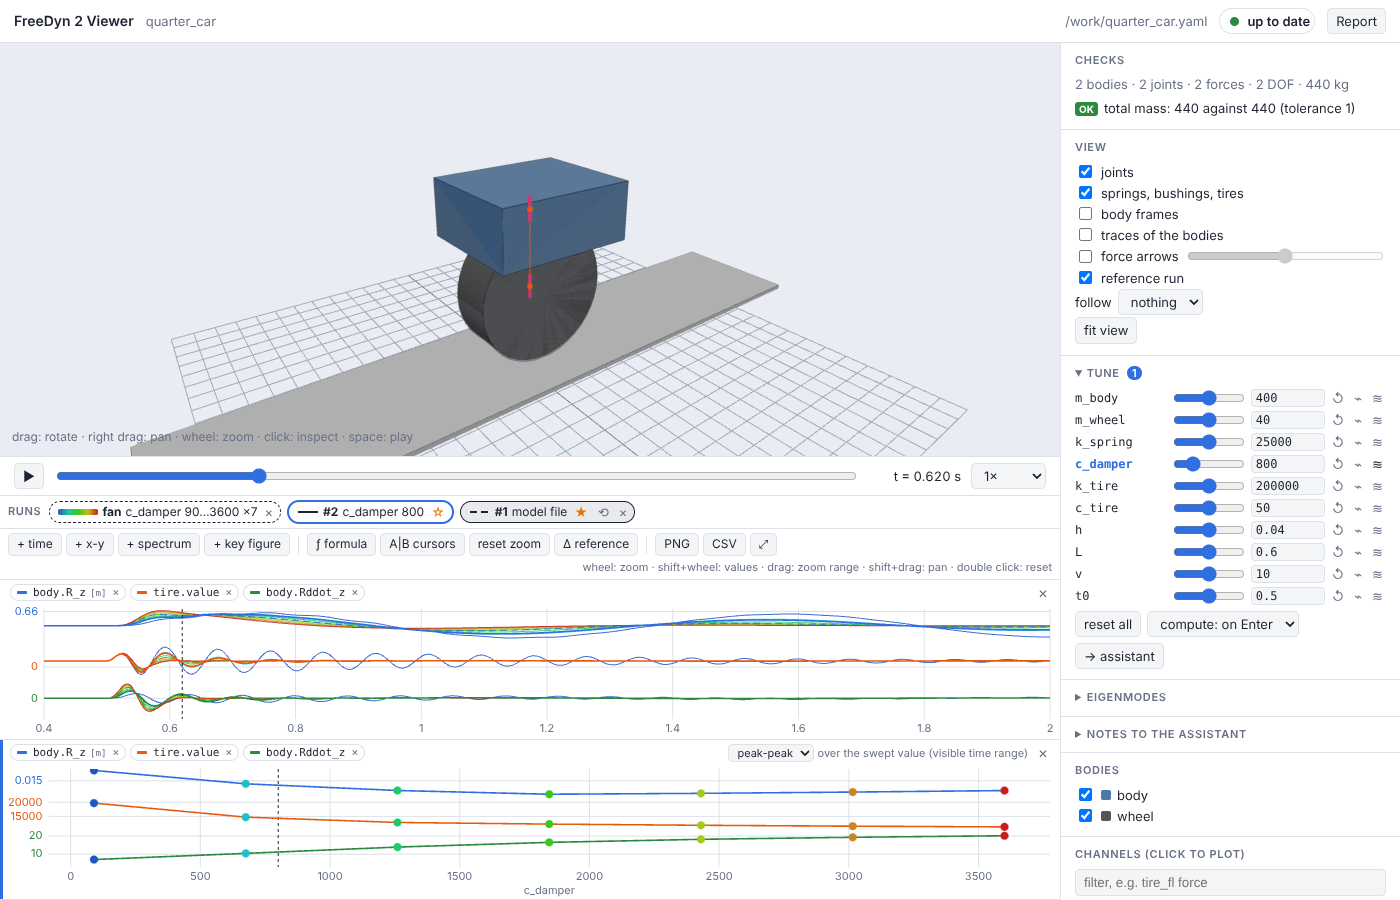
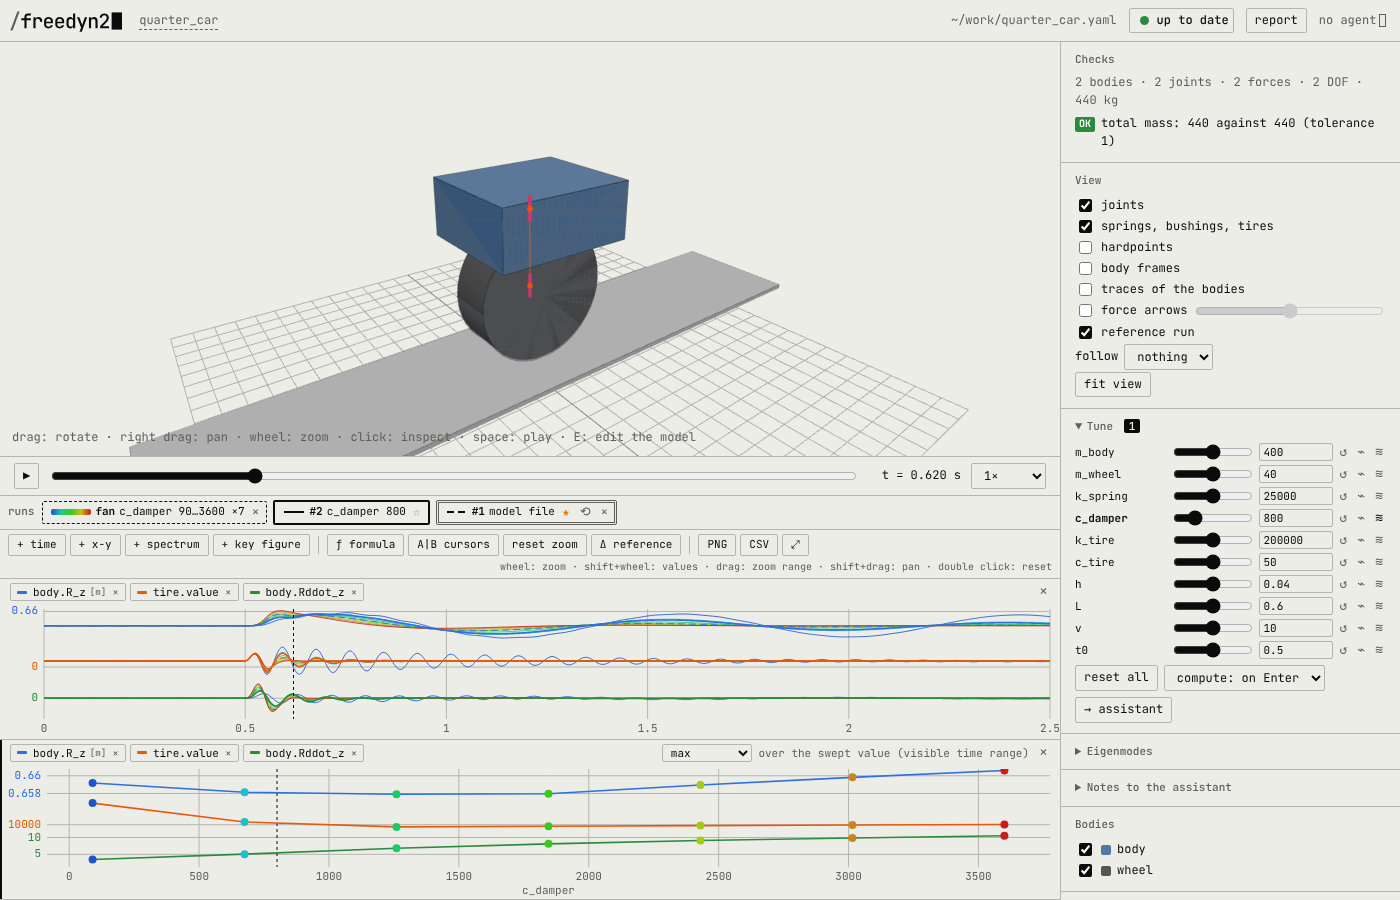
Report on the brand, installer removes the old start menu folder, docs screenshots
- Report of the viewer (panels.js): ink on paper, JetBrains Mono and the lockup embedded as
  data URIs (still one HTML file), print without the paper ground.
- Installer: an upgrade removes the start menu folder "FreeDyn 2" of 0.1.0rc1 (its shortcuts,
  and the "freedyn2 ..." shortcuts an rc1 -> rc2 upgrade put into it), then the folder if
  empty, and the old desktop icon; UsePreviousGroup=no, so the folder "freedyn2" is used.
- tools/docs_screenshots.py: the screenshots of the documentation from the examples; all of
  docs/img made again with it (app-start as on main, viewer-editor by hand).

Claude-Session: https://claude.ai/code/session_01CxFoAeMHQZKA5GBXYboFE4

diff --git a/generator/fdgen/view/web/panels.js b/generator/fdgen/view/web/panels.js
@@ -46,6 +46,36 @@ function image(src) {
   return new Promise((ok, fail) => { const i = new Image(); i.onload = () => ok(i); i.onerror = fail; i.src = src; });
 }
 
+// the brand for the report (one HTML file): JetBrains Mono (400/500/700) and the light
+// lockup as data URIs, read from this page's style sheets and header (served or exported alike)
+async function dataURL(url) {
+  const blob = await (await fetch(url)).blob();
+  return new Promise((ok) => { const r = new FileReader(); r.onload = () => ok(r.result); r.readAsDataURL(blob); });
+}
+async function reportBrand() {
+  const out = { fonts: "", logo: "" };
+  try {
+    const img = document.querySelector("header h1 img");
+    if (img) out.logo = await dataURL(img.src);
+  } catch (e) { /* the name as text */ }
+  for (const sheet of document.styleSheets) {
+    let rules = [];
+    try { rules = [...sheet.cssRules]; } catch (e) { continue; }
+    for (const r of rules) {
+      if (!(r instanceof CSSFontFaceRule) || !/JetBrains Mono/.test(r.style.getPropertyValue("font-family"))) continue;
+      const m = /url\(["']?([^"')]+)["']?\)/.exec(r.style.getPropertyValue("src"));
+      if (!m) continue;
+      try {
+        const src = await dataURL(new URL(m[1], sheet.href || location.href).href);
+        const range = r.style.getPropertyValue("unicode-range");
+        out.fonts += `@font-face{font-family:'JetBrains Mono';font-weight:${r.style.getPropertyValue("font-weight")};` +
+          `src:url(${src}) format('woff2')${range ? `;unicode-range:${range}` : ""}}\n`;
+      } catch (e) { /* the fallback fonts */ }
+    }
+  }
+  return out;
+}
+
 export class Panels {
   // v: {static, area, state, viewImage, showMode, stopMode, select, setTime, render, model(), results()}
   constructor(v) {
@@ -473,16 +503,23 @@ export class Panels {
     const view = await image(this.v.viewImage()), plots = this.v.area.png();
     const rows = (items) => items.map((r) => `<tr>${r.map((x) => `<td>${x}</td>`).join("")}</tr>`).join("");
     const sev = (k, label) => `<span class="sev ${k}">${label}</span>`;
+    const brand = await reportBrand();
     let html = `<!doctype html><html lang="en"><head><meta charset="utf-8"><title>${esc(s.model)} – freedyn2 report</title>
-<style>body{font:14px/1.45 system-ui,sans-serif;max-width:960px;margin:24px auto;padding:0 16px;color:#1d2330}
-h1{font-size:22px;margin:0}h2{font-size:15px;margin:22px 0 6px;border-bottom:1px solid #dde1e8;padding-bottom:3px}
-.muted{color:#677085}table{border-collapse:collapse;width:100%;font-size:13px}td,th{padding:3px 8px;border-bottom:1px solid #eef0f4;text-align:left;vertical-align:top}
-th{color:#677085;font-weight:600}img{max-width:100%;border:1px solid #dde1e8;border-radius:4px}
-.sev{font-size:10px;font-weight:700;color:#fff;border-radius:3px;padding:0 4px}.error,.failed{background:#d9480f}.warning{background:#e67700}
-.info{background:#868e96}.passed{background:#2b8a3e}code{font:12px ui-monospace,Consolas,monospace}
-@media print{button{display:none}}</style></head><body>
-<button onclick="print()" style="float:right">print / PDF</button>
-<h1>${esc(s.model)}</h1><div class="muted">freedyn2 · ${new Date().toLocaleString()} · ${sum.bodies ?? "?"} bodies · ${sum.joints ?? "?"} joints ·
+<style>${brand.fonts}
+:root{--ink:#0B0B0C;--paper:#EDEDE8;--graphite:#5E5E5A;--soft:#B5B5B0}
+body{font:13px/1.5 'JetBrains Mono',ui-monospace,Consolas,monospace;max-width:960px;margin:24px auto;padding:0 16px;color:var(--ink);background:var(--paper)}
+header{display:flex;align-items:center;gap:12px;border-bottom:1px solid var(--ink);padding-bottom:8px;margin-bottom:10px}
+header img{height:40px;margin:-6px 0 -6px -12px}
+h1{font-size:20px;font-weight:500;letter-spacing:-0.02em;margin:0}h2{font-size:14px;font-weight:500;margin:22px 0 6px;border-bottom:1px solid var(--soft);padding-bottom:3px}
+.muted{color:var(--graphite)}table{border-collapse:collapse;width:100%;font-size:12px}td,th{padding:3px 8px;border-bottom:1px solid var(--soft);text-align:left;vertical-align:top}
+th{color:var(--graphite);font-weight:500}img{max-width:100%;border:1px solid var(--soft)}header img{border:0}
+.sev{font-size:10px;font-weight:700;color:#fff;border-radius:2px;padding:0 4px}.error,.failed{background:#d9480f}.warning{background:#e67700}
+.info{background:#868e96}.passed{background:#2b8a3e}code{font:inherit}
+button{font:inherit;color:var(--ink);background:var(--paper);border:1px solid var(--ink);border-radius:2px;padding:3px 10px;cursor:pointer}
+@media print{button{display:none}body{background:none;margin:0 auto}}</style></head><body>
+<header>${brand.logo ? `<img src="${brand.logo}" alt="freedyn2">` : "<b>freedyn2</b>"}<span class="muted">report</span>
+<button onclick="print()" style="margin-left:auto">print / pdf</button></header>
+<h1>${esc(s.model)}</h1><div class="muted">${new Date().toLocaleString()} · ${sum.bodies ?? "?"} bodies · ${sum.joints ?? "?"} joints ·
 ${sum.forces ?? "?"} forces · ${sum.degrees_of_freedom ?? "?"} degrees of freedom · total mass ${fmt(sum.total_mass ?? "?")} kg` +
       (results ? ` · results t = ${fmt(results.t[0])} … ${fmt(results.t[results.t.length - 1])} s (${results.n} outputs)` : "") + "</div>";
     html += `<h2>View at t = ${fmt(this.v.state.time)} s</h2><img src="${view.src}" alt="3D view">`;

diff --git a/tools/docs_screenshots.py b/tools/docs_screenshots.py
@@ -1,0 +1,226 @@
+"""The screenshots of the documentation (docs/img/*.png), made again from the examples.
+
+  python tools/docs_screenshots.py              all of them
+  python tools/docs_screenshots.py fan viewer   these
+
+docs/img/viewer-editor.png is not among them (the editor needs a hand-made scene).
+
+Needs freedyn2_run (built; FREEDYN2_RUN or on the PATH), the Python package playwright and a
+Chromium for it (PLAYWRIGHT_CHROMIUM: the browser executable, else the one of
+`playwright install chromium`, as tools/make_app_icon.py). The pages are
+the light theme at the size the documentation shows them; the viewer and the app run as for a
+user, on local ports, with copies of the examples in a temporary folder.
+"""
+
+import os
+import shutil
+import sys
+import tempfile
+import threading
+import time
+from http.server import ThreadingHTTPServer
+from pathlib import Path
+
+ROOT = Path(__file__).resolve().parents[1]
+sys.path.insert(0, str(ROOT / "generator"))
+
+from fdgen import cli  # noqa: E402
+from fdgen.view import server  # noqa: E402
+
+IMG = ROOT / "docs" / "img"
+# the model file in the header as ~/work/... instead of the temporary folder
+HIDE_TMP = """addEventListener("DOMContentLoaded", () => { const el = document.getElementById("status"); if (!el) return;
+  new MutationObserver(() => { if (el.textContent.includes("TMP")) el.textContent = el.textContent.replace("TMP", "~/work"); })
+    .observe(el, { childList: true, characterData: true, subtree: true }); });"""
+DAMPER = "parameters.c_damper"
+
+
+def viewer(model, runtime, **kw):
+    """A viewer of the model on a free port: (url, stop)."""
+    v = server.View(model, runtime=runtime, **kw)
+    v.rebuild()
+    httpd = ThreadingHTTPServer(("127.0.0.1", 0), server._handler(v))
+    stop = threading.Event()
+    threading.Thread(target=httpd.serve_forever, daemon=True).start()
+    threading.Thread(target=v.watch, args=(stop,), daemon=True).start()
+
+    def close():
+        stop.set()
+        httpd.shutdown()
+        shutil.rmtree(v.workdir, ignore_errors=True)
+
+    return f"http://127.0.0.1:{httpd.server_address[1]}/", close
+
+
+def wait(page, condition, timeout=120):
+    """Until the JavaScript condition holds in the page."""
+    t0 = time.time()
+    while not page.evaluate(condition):
+        if time.time() - t0 > timeout:
+            raise TimeoutError(condition)
+        page.wait_for_timeout(200)
+
+
+def ready(page):
+    wait(page, "window.fdViewer && window.fdViewer.results && window.fdViewer.panels.server"
+               " && window.fdViewer.panels.server.status === 'ready'")
+    page.wait_for_timeout(400)
+
+
+def plots(page, *panes, time_=None):
+    """One time plot per tuple of channels; the time cursor at time_."""
+    page.evaluate("""(panes) => { const a = window.fdViewer.plots;
+        for (const names of panes) { a.addPane("time"); for (const n of names) a.addChannel(n, a.panes.length - 1); } }""",
+                  [list(p) for p in panes])
+    if time_ is not None:
+        page.evaluate(f"window.fdViewer.setTime({time_})")
+
+
+def quarter_car(page, url):
+    page.goto(url)
+    ready(page)
+    page.evaluate("document.getElementById('tune-details').open = true")
+    page.select_option("#tune-policy", "manual")
+
+
+def damper(page, value):
+    page.evaluate(f"window.fdViewer.panels.set('{DAMPER}', {value}, 1800)")
+
+
+def compute(page):
+    page.evaluate("window.fdViewer.panels.compute()")
+    page.wait_for_timeout(500)
+    ready(page)
+    wait(page, "document.querySelectorAll('#runs .run').length >= 2")
+
+
+def model_file_run_as_reference(page):
+    page.locator("#runs .run", has_text="model file").locator(".star").click()
+    wait(page, "window.fdViewer.panels.server.reference !== null")
+    page.wait_for_timeout(600)
+
+
+def sweep(page):
+    page.locator(f".tune-row[data-path='{DAMPER}'] .sweep").click()
+    wait(page, "(s => s.sweep && s.sweep.status !== 'running')(window.fdViewer.panels.server)", timeout=300)
+    page.wait_for_timeout(1500)
+
+
+# --- the pictures: name -> (viewport, function(page, ctx)) -----------------------------------
+
+QUARTER_PLOTS = (("body.R_z", "tire.value", "body.Rddot_z"),)
+
+
+def shot_viewer(page, ctx):
+    quarter_car(page, ctx["quarter"]())
+    plots(page, *QUARTER_PLOTS, time_=0.62)
+
+
+def shot_tune_pending(page, ctx):
+    quarter_car(page, ctx["quarter"]())
+    plots(page, *QUARTER_PLOTS, time_=0.62)
+    damper(page, 800)
+
+
+def shot_runs_reference(page, ctx):
+    quarter_car(page, ctx["quarter"]())
+    plots(page, *QUARTER_PLOTS, time_=0.62)
+    damper(page, 800)
+    compute(page)
+    model_file_run_as_reference(page)
+
+
+def shot_runs_delta(page, ctx):
+    shot_runs_reference(page, ctx)
+    page.click("#plot-delta")
+
+
+def shot_fan(page, ctx):
+    shot_runs_reference(page, ctx)
+    sweep(page)
+
+
+def shot_root_locus(page, ctx):
+    shot_fan(page, ctx)
+    page.evaluate("window.fdViewer.setTime(0.2)")
+    page.locator(f".tune-row[data-path='{DAMPER}'] .locus").click()
+    page.wait_for_timeout(3000)
+
+
+def shot_pendulum(page, ctx):
+    url, close = viewer(ctx["examples"] / "pendulum.yaml", ctx["runtime"])
+    ctx["close"].append(close)
+    page.goto(url)
+    ready(page)
+    plots(page, ("rod.R_x", "rod.R_z"), time_=0.62)
+
+
+def shot_car_crg(page, ctx):
+    url, close = viewer(ctx["examples"] / "car_on_crg.yaml", ctx["runtime"])
+    ctx["close"].append(close)
+    page.goto(url)
+    ready(page)
+    page.select_option("#follow", "chassis")
+    plots(page, ("tire_fl.force_z",), ("tire_rl.force_z",), ("head.specific_force_z",), time_=8.62)
+
+
+def shot_app_start(page, ctx):
+    from fdgen.app.server import App
+
+    app = App(runtime=ctx["runtime"], native=None, open_browser=False, idle_seconds=None).start(port=0, publish=False)
+    ctx["close"].append(app.shutdown)
+    page.goto(app.url())
+    page.wait_for_timeout(1500)
+
+
+SHOTS = {
+    "viewer": ((1500, 950), shot_viewer),
+    "tune-pending": ((1400, 900), shot_tune_pending),
+    "runs-reference": ((1400, 900), shot_runs_reference),
+    "runs-delta": ((1400, 900), shot_runs_delta),
+    "fan": ((1400, 900), shot_fan),
+    "root-locus": ((1400, 900), shot_root_locus),
+    "pendulum": ((1300, 760), shot_pendulum),
+    "car-crg": ((1400, 860), shot_car_crg),
+    "app-start": ((1200, 760), shot_app_start),
+}
+
+
+def main(names):
+    from playwright.sync_api import sync_playwright
+
+    runtime = cli.find_runtime()
+    tmp = Path(tempfile.mkdtemp(prefix="freedyn2_shots_"))
+    examples = tmp / "examples"
+    shutil.copytree(ROOT / "examples", examples)
+    ctx = {"runtime": runtime, "examples": examples, "close": []}
+
+    def quarter():
+        url, close = viewer(examples / "quarter_car.yaml", runtime)
+        ctx["close"].append(close)
+        return url
+
+    ctx["quarter"] = quarter
+    try:
+        with sync_playwright() as p:
+            exe = os.environ.get("PLAYWRIGHT_CHROMIUM")
+            browser = p.chromium.launch(**({"executable_path": exe} if exe else {}))
+            for name in names or SHOTS:
+                (w, h), shot = SHOTS[name]
+                page = browser.new_page(viewport={"width": w, "height": h}, color_scheme="light", reduced_motion="reduce")
+                page.add_init_script(HIDE_TMP.replace("TMP", str(examples).replace("\\", "/")))
+                shot(page, ctx)
+                page.wait_for_timeout(600)
+                page.screenshot(path=str(IMG / f"{name}.png"))
+                page.close()
+                for close in ctx["close"]:
+                    close()
+                ctx["close"].clear()
+                print(f"docs/img/{name}.png", flush=True)
+            browser.close()
+    finally:
+        shutil.rmtree(tmp, ignore_errors=True)
+
+
+if __name__ == "__main__":
+    main(sys.argv[1:])

diff --git a/CHANGELOG.md b/CHANGELOG.md
@@ -14,6 +14,17 @@ the section of a version becomes the text of its GitHub Release (docs/releasing.
   the assistant or another editor is reloaded or, with unsaved changes, not overwritten. The
   element under the cursor is selected in the 3D view and the other way round.
 
+### Changed
+
+- The viewer's report (Report) in the brand: ink on paper, JetBrains Mono and the word mark,
+  still one HTML file.
+
+### Fixed
+
+- Windows installer: an upgrade from 0.1.0rc1 or rc2 removes the old start menu folder
+  *FreeDyn 2* (with the shortcuts rc2 had put into it) and the old desktop icon; the entries are
+  then only in the folder *freedyn2*.
+
 ## [0.1.0rc2] - 2026-11-06
 
 Release candidate in the brand (brand/README.md). Not signed: Windows SmartScreen warns on the
